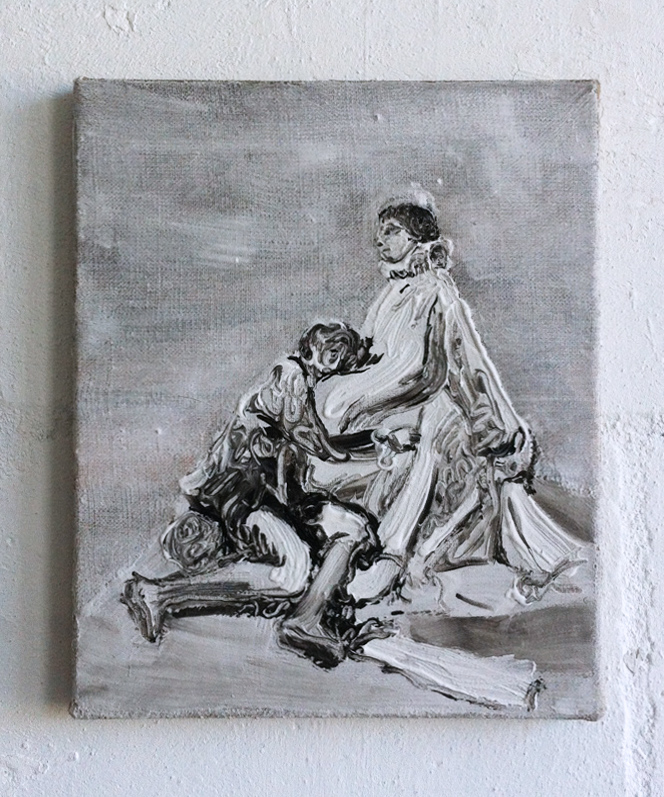
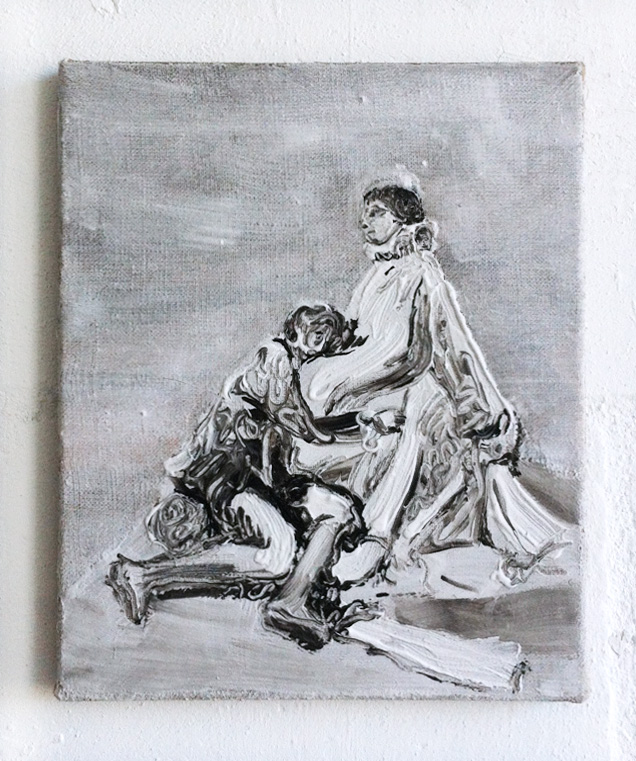
Adding "Anais Aubert 2" and news about Turps Gallery show

diff --git a/by_series.html b/by_series.html
@@ -27,10 +27,12 @@
               <li><a id="menu-item-by-year" href="by_year.html">by year</a></li>
             </ul>
             <ul class="hide-for-large-up series">
-              <li><a href="showcase.html">Feral Children</a></li>
               <li><a href="mini-series_Mars.html">Mars</a></li>
-              <li><a href="showcase.html">19th Century Women</a></li>
-              <li><a href="showcase.html">War</a></li>
+              <li><a href="mini-series_Feral.html">Feral Children</a></li>
+              <li><a href="mini-series_Women.html">19th Century Women</a></li>
+              <li><a href="mini-series_Grimm.html">Grimm Tales</a></li>
+              <li><a href="mini-series_Dead.html">Dead</a></li>
+              <li><a href="mini-series_War.html">Beautiful Painting of War</a></li>
             </ul>
           </li>
           <li><a href="bio.html">Bio</a></li>
@@ -52,7 +54,8 @@
             <p>
               (2013 &ndash; 2014)
             </p>
-            <div class="gallery-images"><a href="06_mars-01.html"><img src="images/06_S_mars-01.jpg"></a><a href="06_mars-02.html"><img src="images/06_S_mars-02.jpg"></a><a href="06_mars-03.html"><img src="images/06_S_mars-03.jpg"></a><a href="06_martian-rock-01.html"><img src="images/06_S_martian-rock-01.jpg"></a><a href="06_martian-crater-01.html"><img src="images/06_S_martian-crater-01.jpg"></a><a href="06_martian-rock-02.html"><img src="images/06_S_martian-rock-02.jpg"></a></div>
+            <div class="gallery-images"><a href="06_mars-01.html"><img src="images/06_S_mars-01.jpg"></a><a href="06_mars-02.html"><img src="images/06_S_mars-02.jpg"></a><a href="06_mars-03.html"><img src="images/06_S_mars-03.jpg"></a><a href="06_martian-rock-01.html"><img src="images/06_S_martian-rock-01.jpg"></a><a href="06_martian-crater-01.html"><img src="images/06_S_martian-crater-01.jpg"></a><a href="06_martian-rock-02.html"><img src="images/06_S_martian-rock-02.jpg"></a><a href="06_martian-diptych.html"><img src="images/06_S_martian-diptych.jpg"></a><a href="06_martian-diptych-A.html"><img src="images/06_S_martian-diptych-A.jpg"></a><a href="06_martian-diptych-B.html"><img src="images/06_S_martian-diptych-B.jpg"></a>
+            </div>
           </section>
           <section>
             <h2 id="Feral-children">Feral Children</h2>
@@ -65,7 +68,8 @@
             <p>
               (2012 &ndash; 2013)
             </p>
-            <div class="gallery-images"><a href="05_genie-wiley-01.html"><img src="images/05_S_genie-wiley-01.jpg"></a><a href="05_genie-wiley-02.html"><img src="images/05_S_genie-wiley-02.jpg"></a><a href="05_genie-wiley-03.html"><img src="images/05_S_genie-wiley-03.jpg"></a><a href="05_genie-wiley-04.html"><img src="images/05_S_genie-wiley-04.jpg"></a><a href="05_ivan-mishukov-01.html"><img src="images/05_S_ivan-mishukov-01.jpg"></a><a href="05_john-ssebunya-01.html"><img src="images/05_S_john-ssebunya-01.jpg"></a><a href="05_kamala-01.html"><img src="images/05_S_kamala-01.jpg"></a><a href="05_memmie-le-blanc-01.html"><img src="images/05_S_memmie-le-blanc-01.jpg"></a><a href="05_peter-wild-boy-01.html"><img src="images/05_S_peter-wild-boy-01.jpg"></a><a href="05_discovery-of-moses-01.html"><img src="images/05_S_discovery-of-moses-01.jpg"></a><a href="05_discovery-of-moses-02.html"><img src="images/05_S_discovery-of-moses-02.jpg"></a><a href="05_untitled-01.html"><img src="images/05_S_untitled-01.jpg"></a></div>
+            <div class="gallery-images"><a href="05_genie-wiley-01.html"><img src="images/05_S_genie-wiley-01.jpg"></a><a href="05_genie-wiley-02.html"><img src="images/05_S_genie-wiley-02.jpg"></a><a href="05_genie-wiley-03.html"><img src="images/05_S_genie-wiley-03.jpg"></a><a href="05_genie-wiley-04.html"><img src="images/05_S_genie-wiley-04.jpg"></a><a href="05_ivan-mishukov-01.html"><img src="images/05_S_ivan-mishukov-01.jpg"></a><a href="05_john-ssebunya-01.html"><img src="images/05_S_john-ssebunya-01.jpg"></a><a href="05_kamala-01.html"><img src="images/05_S_kamala-01.jpg"></a><a href="05_memmie-le-blanc-01.html"><img src="images/05_S_memmie-le-blanc-01.jpg"></a><a href="05_peter-wild-boy-01.html"><img src="images/05_S_peter-wild-boy-01.jpg"></a><a href="05_discovery-of-moses-01.html"><img src="images/05_S_discovery-of-moses-01.jpg"></a><a href="05_discovery-of-moses-02.html"><img src="images/05_S_discovery-of-moses-02.jpg"></a><a href="05_untitled-01.html"><img src="images/05_S_untitled-01.jpg"></a>
+            </div>
           </section>
           <section>
             <h2 id="Women-of-19th-Century">Women of the 19th Century</h2>
@@ -75,7 +79,9 @@
             <p>
               (2011 &ndash; present)
             </p>
-            <div class="gallery-images"><a href="04_laura-dAbrantes-01.html"><img src="images/04_S_laura-dAbrantes-01.jpg"></a><a href="04_ewelina-hanska-01.html"><img src="images/04_S_ewelina-hanska-01.jpg"></a><a href="04_maria-walewska-01.html"><img src="images/04_S_maria-walewska-01.jpg"></a><a href="04_rachel-felix-01.html"><img src="images/04_S_rachel-felix-01.jpg"></a><a href="04_lola-montez-05.html"><img src="images/04_S_lola-montez-05.jpg"></a><a href="04_george-sand-03.html"><img src="images/04_S_george-sand-03.jpg"></a><a href="04_painting-01.html"><img src="images/04_S_painting-01.jpg"></a><a href="04_delfina-potocka-02.html"><img src="images/04_S_delfina-potocka-02.jpg"></a><a href="04_marie-duplessis-02.html"><img src="images/04_S_marie-duplessis-02.jpg"></a><a href="04_anais-aubert-01.html"><img src="images/04_S_anais-aubert-01.jpg"></a><a href="04_painting-02.html"><img src="images/04_S_painting-02.jpg"></a><a href="04_apollonie-sabatier-02.html"><img src="images/04_S_apollonie-sabatier-02.jpg"></a><a href="04_laura-dAbrantes-02.html"><img src="images/04_S_laura-dAbrantes-02.jpg"></a><a href="04_delfina-potocka-01.html"><img src="images/04_S_delfina-potocka-01.jpg"></a><a href="04_lola-montez-03.html"><img src="images/04_S_lola-montez-03.jpg"></a><a href="04_aimee-desclee-01.html"><img src="images/04_S_aimee-desclee-01.jpg"></a><a href="04_untitled-01.html"><img src="images/04_S_untitled-01.jpg"></a><a href="04_george-sand-02.html"><img src="images/04_S_george-sand-02.jpg"></a><a href="04_lola-montez-02.html"><img src="images/04_S_lola-montez-02.jpg"></a><a href="04_marie-duplessis-01.html"><img src="images/04_S_marie-duplessis-01.jpg"></a><a href="04_lola-montez-04.html"><img src="images/04_S_lola-montez-04.jpg"></a><a href="04_lola-montez-01.html"><img src="images/04_S_lola-montez-01.jpg"></a><a href="04_apollonie-sabatier-01.html"><img src="images/04_S_apollonie-sabatier-01.jpg"></a><a href="04_karolina-sobanska-01.html"><img src="images/04_S_karolina-sobanska-01.jpg"></a><a href="04_george-sand-01.html"><img src="images/04_S_george-sand-01.jpg"></a></div>
+            <div class="gallery-images"><a href="04_laura-dAbrantes-01.html"><img src="images/04_S_laura-dAbrantes-01.jpg"></a><a href="04_maria-walewska-01.html"><img src="images/04_S_maria-walewska-01.jpg"></a><a href="04_rachel-felix-01.html"><img src="images/04_S_rachel-felix-01.jpg"></a><a href="04_george-sand-03.html"><img src="images/04_S_george-sand-03.jpg"></a><a href="04_ewelina-hanska-01.html"><img src="images/04_S_ewelina-hanska-01.jpg"></a><a href="04_delfina-potocka-02.html"><img src="images/04_S_delfina-potocka-02.jpg"></a><a href="04_lola-montez-05.html"><img src="images/04_S_lola-montez-05.jpg"></a><a href="04_painting-01.html"><img src="images/04_S_painting-01.jpg"></a><a href="04_anais-aubert-01.html"><img src="images/04_S_anais-aubert-01.jpg"></a><a href="04_apollonie-sabatier-02.html"><img src="images/04_S_apollonie-sabatier-02.jpg"></a><a href="04_laura-dAbrantes-02.html"><img src="images/04_S_laura-dAbrantes-02.jpg"></a><a href="04_painting-02.html"><img src="images/04_S_painting-02.jpg"></a><a href="04_delfina-potocka-01.html"><img src="images/04_S_delfina-potocka-01.jpg"></a><a href="04_lola-montez-03.html"><img src="images/04_S_lola-montez-03.jpg"></a><a href="04_aimee-desclee-01.html"><img src="images/04_S_aimee-desclee-01.jpg"></a><a href="04_untitled-01.html"><img src="images/04_S_untitled-01.jpg"></a><a href="04_george-sand-02.html"><img src="images/04_S_george-sand-02.jpg"></a><a href="04_lola-montez-02.html"><img src="images/04_S_lola-montez-02.jpg"></a><a href="04_marie-duplessis-01.html"><img src="images/04_S_marie-duplessis-01.jpg"></a><a href="04_lola-montez-04.html"><img src="images/04_S_lola-montez-04.jpg"></a><a href="04_lola-montez-01.html"><img src="images/04_S_lola-montez-01.jpg"></a><a href="04_apollonie-sabatier-01.html"><img src="images/04_S_apollonie-sabatier-01.jpg"></a><a href="04_karolina-sobanska-01.html"><img src="images/04_S_karolina-sobanska-01.jpg"></a><a href="04_george-sand-01.html"><img src="images/04_S_george-sand-01.jpg"></a><a href="04_anais-aubert-02.html"><img src="images/04_S_anais-aubert-02.jpg"></a>
+            
+            </div>
           </section>
           <section>
             <h2 id="Grimm-tales">Grimm Tales</h2>
@@ -85,7 +91,8 @@
             <p>
               (2009 &ndash; 2012)
             </p>
-            <div class="gallery-images"><a href="03_allerleirauch.html"><img src="images/03_S_allerleirauch.jpg"></a><a href="03_wichtelmaenner.html"><img src="images/03_S_wichtelmaenner2.jpg"></a><a href="03_marienkind.html"><img src="images/03_S_marienkind2.jpg"></a><a href="03_machandelboom.html"><img src="images/03_S_machandelboom2.jpg"></a><a href="03_gaensemagd.html"><img src="images/03_S_gaensemagd.jpg"></a><a href="03_rumpelstilzchen.html"><img src="images/03_S_rumpelstilzchen2.jpg"></a><a href="03_weisse-schwarze-braut.html"><img src="images/03_S_weisseschwartze.jpg"></a><a href="03_gelernte-jaeger.html"><img src="images/03_S_jaeger-02.png"></a><a href="03_trommler.html"><img src="images/03_S_trommler.jpg"></a><a href="03_baerenhaeuter.html"><img src="images/03_S_baerenhaeuter.jpg"></a><a href="03_meisterdieb.html"><img src="images/03_S_meisterdieb.jpg"></a><a href="03_bauer-und-teufel.html"><img src="images/03_S_teufel.jpg"></a></div>
+            <div class="gallery-images"><a href="03_allerleirauch.html"><img src="images/03_S_allerleirauch.jpg"></a><a href="03_wichtelmaenner.html"><img src="images/03_S_wichtelmaenner2.jpg"></a><a href="03_marienkind.html"><img src="images/03_S_marienkind2.jpg"></a><a href="03_machandelboom.html"><img src="images/03_S_machandelboom2.jpg"></a><a href="03_gaensemagd.html"><img src="images/03_S_gaensemagd.jpg"></a><a href="03_rumpelstilzchen.html"><img src="images/03_S_rumpelstilzchen2.jpg"></a><a href="03_weisse-schwarze-braut.html"><img src="images/03_S_weisseschwartze.jpg"></a><a href="03_gelernte-jaeger.html"><img src="images/03_S_jaeger-02.png"></a><a href="03_trommler.html"><img src="images/03_S_trommler.jpg"></a><a href="03_baerenhaeuter.html"><img src="images/03_S_baerenhaeuter.jpg"></a><a href="03_meisterdieb.html"><img src="images/03_S_meisterdieb.jpg"></a><a href="03_bauer-und-teufel.html"><img src="images/03_S_teufel.jpg"></a>
+            </div>
           </section>
           <section>
             <h2 id="Dead">Dead</h2>
@@ -95,7 +102,8 @@
             <p>
               (2008 &ndash; 2009)
             </p>
-            <div class="gallery-images"><a href="01_hunter.html"><img src="images/01_S_hunter-2.jpg"></a><a href="01_lady.html"><img src="images/01_S_deer-02.jpg"></a><a href="01_rabbits.html"><img src="images/01_S_rabbits.jpg"></a><a href="01_3deers.html"><img src="images/01_S_3deers.jpg"></a></div>
+            <div class="gallery-images"><a href="01_hunter.html"><img src="images/01_S_hunter-2.jpg"></a><a href="01_lady.html"><img src="images/01_S_deer-02.jpg"></a><a href="01_rabbits.html"><img src="images/01_S_rabbits.jpg"></a><a href="01_3deers.html"><img src="images/01_S_3deers.jpg"></a>
+            </div>
           </section>
           <section>
             <h2 id="Beautiful-painting-of-war">Beautiful Painting of War</h2>
@@ -105,11 +113,12 @@
             <p>
               (2007 &ndash; 2008)
             </p>
-            <div class="gallery-images"><a href="02_falling.html"><img src="images/02_S_falling.jpg"></a><a href="02_starting.html"><img src="images/02_S_starting.jpg"></a><a href="02_carrier2.html"><img src="images/02_S_carrier-02.jpg"></a><a href="02_airplane.html"><img src="images/02_S_airplane.jpg"></a><a href="02_burning.html"><img src="images/02_S_burning.jpg"></a></div>
+            <div class="gallery-images"><a href="02_falling.html"><img src="images/02_S_falling.jpg"></a><a href="02_starting.html"><img src="images/02_S_starting.jpg"></a><a href="02_carrier2.html"><img src="images/02_S_carrier-02.jpg"></a><a href="02_airplane.html"><img src="images/02_S_airplane.jpg"></a><a href="02_burning.html"><img src="images/02_S_burning.jpg"></a>
+            </div>
           </section>
         </article>
         <div class="hide-for-small">
-          <footer class="copyright">Copyright 2009-2014 Melania Yerka</footer>
+          <footer class="copyright">Copyright © 2009-2015 Mela Yerka</footer>
         </div>
       </div>
     </main>

diff --git a/by_year.html b/by_year.html
@@ -27,12 +27,12 @@
               <li><a id="menu-item-by-year" href="by_year.html" class="active">by year</a></li>
             </ul>
             <ul class="hide-for-large-up series">
-              <li><a href="showcase.html">Mars</a></li>
-              <li><a href="showcase.html">Feral Children</a></li>
-              <li><a href="showcase.html">19th Century Women</a></li>
-              <li><a href="showcase.html">Grimm Tales</a></li>
-              <li><a href="showcase.html">Dead</a></li>
-              <li><a href="showcase.html">Beautiful Painting of War</a></li>
+              <li><a href="mini-series_Mars.html">Mars</a></li>
+              <li><a href="mini-series_Feral.html">Feral Children</a></li>
+              <li><a href="mini-series_Women.html">19th Century Women</a></li>
+              <li><a href="mini-series_Grimm.html">Grimm Tales</a></li>
+              <li><a href="mini-series_Dead.html">Dead</a></li>
+              <li><a href="mini-series_War.html">Beautiful Painting of War</a></li>
             </ul>
           </li>
           <li><a href="bio.html">Bio</a></li>
@@ -53,12 +53,12 @@
 				<li><a id="menu-item-by-year" href="by_year.html">by year</a></li>
               </ul>
               <ul class="hide-for-large-up series">
-                <li><a href="showcase.html">Mars</a></li>
-                <li><a href="showcase.html">Feral Children</a></li>
-                <li><a href="showcase.html">19th Century Women</a></li>
-                <li><a href="showcase.html">Grimm Tales</a></li>
-                <li><a href="showcase.html">Dead</a></li>
-                <li><a href="showcase.html">Beautiful Painting of War</a></li>
+                <li><a href="#">Mars</a></li>
+                <li><a href="#">Feral Children</a></li>
+                <li><a href="#">19th Century Women</a></li>
+                <li><a href="#">Grimm Tales</a></li>
+                <li><a href="#">Dead</a></li>
+                <li><a href="#">Beautiful Painting of War</a></li>
               </ul>
             </li>
             <li><a href="bio.html">Bio</a></li>
@@ -72,28 +72,31 @@
         <div class="index-gallery">
           <!-- shows for large-up-->
           <ol class="gallery">
-            <li><span class="year"><a href="2014.html">2014</a></span>
-              <div class="gallery-images"><a href="04_laura-dAbrantes-01.html" data-image="images/04_S_laura-dAbrantes-01.jpg"></a><a href="04_ewelina-hanska-01.html" data-image="images/04_S_ewelina-hanska-01.jpg"></a><a href="04_maria-walewska-01.html" data-image="images/04_S_maria-walewska-01.jpg"></a><a href="04_rachel-felix-01.html" data-image="images/04_S_rachel-felix-01.jpg"></a><a href="04_lola-montez-05.html" data-image="images/04_S_lola-montez-05.jpg"></a><a href="04_george-sand-03.html" data-image="images/04_S_george-sand-03.jpg"></a><a href="04_painting-01.html" data-image="images/04_S_painting-01.jpg"></a><a href="04_delfina-potocka-02.html" data-image="images/04_S_delfina-potocka-02.jpg"></a><a href="04_marie-duplessis-02.html" data-image="images/04_S_marie-duplessis-02.jpg"></a><a href="04_anais-aubert-01.html" data-image="images/04_S_anais-aubert-01.jpg"></a><a href="04_painting-02.html" data-image="images/04_S_painting-02.jpg"></a><a href="04_apollonie-sabatier-02.html" data-image="images/04_S_apollonie-sabatier-02.jpg"></a><a href="04_laura-dAbrantes-02.html" data-image="images/04_S_laura-dAbrantes-02.jpg"></a><a href="06_martian-rock-01.html" data-image="images/06_S_martian-rock-01.jpg"></a><a href="06_martian-crater-01.html" data-image="images/06_S_martian-crater-01.jpg"></a><a href="06_martian-rock-02.html" data-image="images/06_S_martian-rock-02.jpg"></a></div>
+          	<li><span class="year"><a href="#">2015</a></span>
+              <div class="gallery-images"><a href="04_anais-aubert-02.html" data-image="images/04_S_anais-aubert-02.jpg"></a></div>
             </li>
-            <li><span class="year"><a href="2013.html">2013</a></span>
+            <li><span class="year"><a href="#">2014</a></span>
+              <div class="gallery-images"><a href="04_laura-dAbrantes-01.html" data-image="images/04_S_laura-dAbrantes-01.jpg"></a><a href="04_maria-walewska-01.html" data-image="images/04_S_maria-walewska-01.jpg"></a><a href="04_rachel-felix-01.html" data-image="images/04_S_rachel-felix-01.jpg"></a><a href="04_george-sand-03.html" data-image="images/04_S_george-sand-03.jpg"></a><a href="04_ewelina-hanska-01.html" data-image="images/04_S_ewelina-hanska-01.jpg"></a><a href="04_delfina-potocka-02.html" data-image="images/04_S_delfina-potocka-02.jpg"></a><a href="04_lola-montez-05.html" data-image="images/04_S_lola-montez-05.jpg"></a><a href="04_painting-01.html" data-image="images/04_S_painting-01.jpg"></a><a href="04_anais-aubert-01.html" data-image="images/04_S_anais-aubert-01.jpg"></a><a href="04_apollonie-sabatier-02.html" data-image="images/04_S_apollonie-sabatier-02.jpg"></a><a href="04_laura-dAbrantes-02.html" data-image="images/04_S_laura-dAbrantes-02.jpg"></a><a href="04_painting-02.html" data-image="images/04_S_painting-02.jpg"></a><a href="06_martian-rock-01.html" data-image="images/06_S_martian-rock-01.jpg"></a><a href="06_martian-crater-01.html" data-image="images/06_S_martian-crater-01.jpg"></a><a href="06_martian-rock-02.html" data-image="images/06_S_martian-rock-02.jpg"></a><a href="06_martian-diptych.html" data-image="images/06_S_martian-diptych.jpg"></a><a href="06_martian-diptych-A.html" data-image="images/06_S_martian-diptych-A.jpg"></a><a href="06_martian-diptych-B.html" data-image="images/06_S_martian-diptych-B.jpg"></a></div>
+            </li>
+            <li><span class="year"><a href="#">2013</a></span>
               <div class="gallery-images"><a href="06_mars-01.html" data-image="images/06_S_mars-01.jpg"></a><a href="06_mars-02.html" data-image="images/06_S_mars-02.jpg"></a><a href="06_mars-03.html" data-image="images/06_S_mars-03.jpg"></a></div>
             </li>
-            <li><span class="year"><a href="2012.html">2012</a></span>
+            <li><span class="year"><a href="#">2012</a></span>
               <div class="gallery-images"><a href="05_genie-wiley-01.html" data-image="images/05_S_genie-wiley-01.jpg"></a><a href="05_genie-wiley-02.html" data-image="images/05_S_genie-wiley-02.jpg"></a><a href="05_genie-wiley-03.html" data-image="images/05_S_genie-wiley-03.jpg"></a><a href="05_genie-wiley-04.html" data-image="images/05_S_genie-wiley-04.jpg"></a><a href="05_ivan-mishukov-01.html" data-image="images/05_S_ivan-mishukov-01.jpg"></a><a href="05_john-ssebunya-01.html" data-image="images/05_S_john-ssebunya-01.jpg"></a><a href="05_kamala-01.html" data-image="images/05_S_kamala-01.jpg"></a><a href="05_memmie-le-blanc-01.html" data-image="images/05_S_memmie-le-blanc-01.jpg"></a><a href="05_peter-wild-boy-01.html" data-image="images/05_S_peter-wild-boy-01.jpg"></a><a href="05_discovery-of-moses-01.html" data-image="images/05_S_discovery-of-moses-01.jpg"></a><a href="05_discovery-of-moses-02.html" data-image="images/05_S_discovery-of-moses-02.jpg"></a><a href="05_untitled-01.html" data-image="images/05_S_untitled-01.jpg"></a><a href="04_delfina-potocka-01.html" data-image="images/04_S_delfina-potocka-01.jpg"></a><a href="04_lola-montez-03.html" data-image="images/04_S_lola-montez-03.jpg"></a><a href="04_aimee-desclee-01.html" data-image="images/04_S_aimee-desclee-01.jpg"></a><a href="04_untitled-01.html" data-image="images/04_S_untitled-01.jpg"></a><a href="04_george-sand-02.html" data-image="images/04_S_george-sand-02.jpg"></a><a href="04_lola-montez-02.html" data-image="images/04_S_lola-montez-02.jpg"></a><a href="04_marie-duplessis-01.html" data-image="images/04_S_marie-duplessis-01.jpg"></a></div>
             </li>
-            <li><span class="year"><a href="2011.html">2011</a></span>
+            <li><span class="year"><a href="#">2011</a></span>
               <div class="gallery-images"><a href="04_lola-montez-04.html" data-image="images/04_S_lola-montez-04.jpg"></a><a href="04_lola-montez-01.html" data-image="images/04_S_lola-montez-01.jpg"></a><a href="04_apollonie-sabatier-01.html" data-image="images/04_S_apollonie-sabatier-01.jpg"></a><a href="04_karolina-sobanska-01.html" data-image="images/04_S_karolina-sobanska-01.jpg"></a><a href="04_george-sand-01.html" data-image="images/04_S_george-sand-01.jpg"></a><a href="03_allerleirauch.html" data-image="images/03_S_allerleirauh.jpg"></a><a href="03_wichtelmaenner.html" data-image="images/03_S_wichtelmaenner2.jpg"></a><a href="03_marienkind.html" data-image="images/03_S_marienkind2.jpg"></a></div>
             </li>
-            <li><span class="year"><a href="2010.html">2010</a></span>
+            <li><span class="year"><a href="#">2010</a></span>
               <div class="gallery-images"><a href="03_machandelboom.html" data-image="images/03_S_machandelboom2.jpg"></a><a href="03_gaensemagd.html" data-image="images/03_S_gaensemagd.jpg"></a><a href="03_rumpelstilzchen.html" data-image="images/03_S_rumpelstilzchen2.jpg"></a><a href="03_weisse-schwarze-braut.html" data-image="images/03_S_weisseschwartze.jpg"></a><a href="03_gelernte-jaeger.html" data-image="images/03_S_jaeger-02.png"></a><a href="03_trommler.html" data-image="images/03_S_trommler.jpg"></a><a href="03_baerenhaeuter.html" data-image="images/03_S_baerenhaeuter.jpg"></a><a href="03_meisterdieb.html" data-image="images/03_S_meisterdieb.jpg"></a></div>
             </li>
-            <li><span class="year"><a href="2009.html">2009 and earlier</a></span>
+            <li><span class="year"><a href="#">2009 and earlier</a></span>
               <div class="gallery-images"><a href="03_bauer-und-teufel.html" data-image="images/03_S_teufel.jpg"></a><a href="01_hunter.html" data-image="images/01_S_hunter-2.jpg"></a><a href="01_lady.html" data-image="images/01_S_deer-02.jpg"></a><a href="01_rabbits.html" data-image="images/01_S_rabbits.jpg"></a><a href="01_3deers.html" data-image="images/01_S_3deers.jpg"></a><a href="02_falling.html" data-image="images/02_S_falling.jpg"></a><a href="02_starting.html" data-image="images/02_S_starting.jpg"></a><a href="02_carrier2.html" data-image="images/02_S_carrier-02.jpg"></a><a href="02_airplane.html" data-image="images/02_S_airplane.jpg"></a><a href="02_burning.html" data-image="images/02_S_burning.jpg"></a></div>
             </li>
           </ol>
         </div>
         <div class="hide-for-small">
-          <footer class="copyright">Copyright 2009-2014 Melania Yerka</footer>
+          <footer class="copyright">Copyright © 2009-2015 Mela Yerka</footer>
         </div>
       </div>
     </main>

diff --git a/mini-series_Women.html b/mini-series_Women.html
@@ -52,81 +52,56 @@
             <h3>Here I explore the stories of high society women living in the times of Romanticism who were lovers of famous contemporary men: Balzac, Chopin, Hugo, Liszt, Byron. They created a peculiar web of sexual relationships where each woman (among them: George Sand, Rachel Felix, Lola Montez) was linked to another through their mutual lovers. Thus, a constellation of lovers had emerged &mdash; mysterious, complex and entangled.<br>
             <br>
 			<a href="#ReadMore">Read more...</a></h3>
-          <h4>"Laura d'Abrantes"</h4>
-		  <h5>Oil, acrylic, egg tempera, water colour and marble dust on linen (2014)</h5>
+          <h4>"Laura d'Abrantes"</h4><h5>Oil, acrylic, egg tempera, water colour and marble dust on linen (2014)</h5>
             <img src="images/04_L_laura-dAbrantes-01.jpg">
-          <h4>"Ewelina Hanska"</h4>
-		  <h5>100&times;80 cm, acrylic, oil and marble dust on linen (2014)</h5>
-            <img src="images/04_L_ewelina-hanska-01.jpg">
-          <h4>"Maria Walewska"</h4>
-		  <h5>110&times;110 cm, acrylic and marble dust on linen (2014)</h5>
+          <h4>"Maria Walewska"</h4><h5>110&times;110 cm, acrylic and marble dust on linen (2014)</h5>
             <img src="images/04_L_maria-walewska-01.jpg">
-          <h4>"Rachel Felix"</h4>
-		  <h5>90&times;60 cm, acrylic, oil, egg tempera and marble dust on linen (2014)</h5>
+          <h4>"Rachel Felix"</h4><h5>90&times;60 cm, acrylic, oil, egg tempera and marble dust on linen (2014)</h5>
             <img src="images/04_L_rachel-felix-01.jpg">
-          <h4>"Lola Montez"</h4>
-		  <h5>60&times;90 cm, marble dust and oil on linen (2014)</h5>
-            <img src="images/04_L_lola-montez-05.jpg">
-          <h4>"George Sand"</h4>
-		  <h5>60&times;90 cm, acrylic, marble dust and oil on linen (2014)</h5>
+          <h4>"George Sand"</h4><h5>60&times;90 cm, acrylic, marble dust and oil on linen (2014)</h5>
             <img src="images/04_L_george-sand-03.jpg">
-          <h4>Untitled</h4>
-		  <h5>Oil in linen (2014)</h5>
-            <img src="images/04_L_painting-01.jpg">
-          <h4>"Delfina Potocka"</h4>
-		  <h5>Oil in linen (2014)</h5>
+          <h4>"Ewelina Hanska"</h4><h5>100&times;80 cm, acrylic, oil and marble dust on linen (2014)</h5>
+            <img src="images/04_L_ewelina-hanska-01.jpg">
+          <h4>"Delfina Potocka"</h4><h5>Oil in linen (2014)</h5>
             <img src="images/04_L_delfina-potocka-02.jpg">
-          <h4>"Flowers for Marie Duplessis"</h4>
-		  <h5>Oil on linen cutouts on linen (2014)</h5>
-            <img src="images/04_L_marie-duplessis-02.jpg">
-          <h4>"Anais Aubert"</h4>
-		  <h5>Oil on linen (2014)</h5>
+          <h4>"Lola Montez"</h4><h5>60&times;90 cm, marble dust and oil on linen (2014)</h5>
+            <img src="images/04_L_lola-montez-05.jpg">
+          <h4>Untitled</h4><h5>Oil in linen (2014)</h5>
+            <img src="images/04_L_painting-01.jpg">
+          <h4>"Anais Aubert"</h4><h5>Oil on linen (2014)</h5>
             <img src="images/04_L_anais-aubert-01.jpg">
-          <h4>Untitled</h4>
-		  <h5>Oil and marble dust on linen (2014)</h5>
-            <img src="images/04_L_painting-02.jpg">
-          <h4>"Apollonie Sabatier"</h4>
-		  <h5>Oil and marble dust on linen (2014)</h5>
+          <h4>"Apollonie Sabatier"</h4><h5>Oil and marble dust on linen (2014)</h5>
             <img src="images/04_L_apollonie-sabatier-02.jpg">
-          <h4>"Laura d'Abrantes"</h4>
-		  <h5>Oil on linen (2014)</h5>
+          <h4>"Laura d'Abrantes"</h4><h5>Oil on linen (2014)</h5>
             <img src="images/04_L_laura-dAbrantes-02.jpg">
-          <h4>"Delfina Potocka"</h4>
-		  <h5>27.5&times;25 cm, oil on linen (2012)</h5>
+          <h4>Untitled</h4><h5>Oil and marble dust on linen (2014)</h5>
+            <img src="images/04_L_painting-02.jpg">
+          <h4>"Delfina Potocka"</h4><h5>27.5&times;25 cm, oil on linen (2012)</h5>
             <img src="images/04_L_delfina-potocka-01.jpg">
-          <h4>"Lola Montez"</h4>
-		  <h5>120&times;100 cm, egg tempera and water colour on linen (2012)</h5>
+          <h4>"Lola Montez"</h4><h5>120&times;100 cm, egg tempera and water colour on linen (2012)</h5>
             <img src="images/04_L_lola-montez-03.jpg">
-          <h4>"Aimee Desclee"</h4>
-		  <h5>46&times;38 cm, oil on canvas (2012)</h5>
+          <h4>"Aimee Desclee"</h4><h5>46&times;38 cm, oil on canvas (2012)</h5>
             <img src="images/04_L_aimee-desclee-01.jpg">
-          <h4>Untitled</h4>
-		  <h5>25&times;20 cm, oil on glass (2012)</h5>
+          <h4>Untitled</h4><h5>25&times;20 cm, oil on glass (2012)</h5>
             <img src="images/04_L_untitled-01.jpg">
-          <h4>"Flowers for George Sand"</h4>
-		  <h5>40.5&times;30.5 cm, oil on canvas (2012)</h5>
+          <h4>"Flowers for George Sand"</h4><h5>40.5&times;30.5 cm, oil on canvas (2012)</h5>
             <img src="images/04_L_george-sand-02.jpg">
-          <h4>"Lola Montez"</h4>
-		  <h5>Oil on linen, porcelain cameo (2012)</h5>
+          <h4>"Lola Montez"</h4><h5>Oil on linen, porcelain cameo (2012)</h5>
             <img src="images/04_L_lola-montez-02.jpg">
-          <h4>"Marie Duplessis"</h4>
-		  <h5>24&times;18 cm, oil on linen cutouts on linen (2012)</h5>
+          <h4>"Marie Duplessis"</h4><h5>24&times;18 cm, oil on linen cutouts on linen (2012)</h5>
             <img src="images/04_L_marie-duplessis-01.jpg">
-          <h4>"Lola Montez"</h4>
-		  <h5>56&times;44 cm, oil on linen (2011)</h5>
+          <h4>"Lola Montez"</h4><h5>56&times;44 cm, oil on linen (2011)</h5>
             <img src="images/04_L_lola-montez-04.jpg">
-          <h4>"Lola Montez"</h4>
-		  <h5>35.5&times;27.5 cm, oil on glass and paper, multiple layers (2011)</h5>
+          <h4>"Lola Montez"</h4><h5>35.5&times;27.5 cm, oil on glass and paper, multiple layers (2011)</h5>
             <img src="images/04_L_lola-montez-01.jpg">
-          <h4>"Apollonie Sabatier"</h4>
-		  <h5>27.5&times;21.5 cm, oil on linen (2011)</h5>
+          <h4>"Apollonie Sabatier"</h4><h5>27.5&times;21.5 cm, oil on linen (2011)</h5>
             <img src="images/04_L_apollonie-sabatier-01.jpg">
-          <h4>"Flowers for Karolina Sobanska"</h4>
-		  <h5>30.5&times;25.5 cm, oil on canvas (2011)</h5>
+          <h4>"Flowers for Karolina Sobanska"</h4><h5>30.5&times;25.5 cm, oil on canvas (2011)</h5>
             <img src="images/04_L_karolina-sobanska-01.jpg">
-          <h4>"George Sand"</h4>
-		  <h5>40&times;30 cm, oil on linen (2011)</h5>
+          <h4>"George Sand"</h4><h5>40&times;30 cm, oil on linen (2011)</h5>
           	<img src="images/04_L_george-sand-01.jpg">
+          <h4>"Anais Aubert"</h4><h5>Marble dust, acrylic and ink on linen (2015)</h5>
+            <img src="images/04_L_anais-aubert-02.jpg">
           <h3><a name="ReadMore"></a>Here I explore the stories of high society women living in the times of Romanticism who were lovers of famous contemporary men: Balzac, Chopin, Hugo, Liszt, Byron. They created a peculiar web of sexual relationships where each woman (among them: George Sand, Rachel Felix, Lola Montez) was linked to another through their mutual lovers. Thus, a constellation of lovers had emerged &mdash; mysterious, complex and entangled.<br>
 			<br>
 			19th Century women &mdash; aristocrats, writers, actresses, models, courtesans &mdash; and the stories of their lives are remembered in history only through their intimate relationships with the prominent men of that time. All portrayed women craved personal freedom and social appreciation, but in pursuit of it they had to rely on male lust and love. Bringing their stories back from the past (and being forgotten), I want to explore and depict 19th Century womens' struggle for individuality.</h3>
@@ -136,7 +111,7 @@
             <div class="menu-trigger"><a href="index.html">Menu</a></div>
           </footer>
         <div>
-          <footer class="copyright">Copyright 2009-2014 Melania Yerka</footer>
+          <footer class="copyright">Copyright © 2009-2015 Mela Yerka</footer>
         </div>
       </div>
     </main>

diff --git a/04_anais-aubert-02.html b/04_anais-aubert-02.html
@@ -1,0 +1,67 @@
+<!DOCTYPE html>
+<html lang="en">
+  <head>
+    <meta charset="utf-8">
+    <meta name="viewport" content="width=device-width, initial-scale=1.0">
+    <meta name="keywords" content="Yerka, Mela, Melania, Mela Yerka, artist, art, painter, canvas, oil on canvas, oil colours, picture, painting, Poland, England, United Kingdom, London, Warsaw, ASP Warszawa, Central Saint Martins, MA Fine Art, Maria Stenfors">
+    <meta property="og:site_name" content="melayerka.com">
+    <meta property="og:type" content="website">
+    <meta property="og:description" content="Mela Yerka. Graduated in 2011 from Central Saint Martins, London, having previously studied at the Academy of Fine Arts in Warsaw, Poland. Mela is the winner of the Cass Art Painting Prize 2011. Polish born, she now lives and works in London. She exhibits her work internationally.">
+    <link href="favicon.ico" rel="shortcut icon" type="image/x-icon">
+    <script type="text/javascript" src="//use.typekit.net/fut1tws.js"></script>
+	<script type="text/javascript">try{Typekit.load();}catch(e){}</script>
+    <link rel="stylesheet" href="normalize.css">
+    <link rel="stylesheet" href="foundation.css">
+    <link rel="stylesheet" href="app.css">
+    <script src="components/jquery/dist/jquery.min.js"></script>
+    <script src="components/modernizr/modernizr.js"></script>
+    <title>Mela Yerka</title>
+  </head>
+  <body>
+    <main>
+      <div class="menu-wrapper"><span class="site-title"><a href="index.html">Mela Yerka</a></span>
+        <ul class="menu">
+          <li>Works
+              <ul class="show-for-large-up">
+                <li><a href="by_series.html">by series</a></li>
+					 <li><a id="menu-item-by-year" href="by_year.html">by year</a></li>
+              </ul>
+              <ul class="hide-for-large-up series">
+                <li><a href="#">Mars</a></li>
+                <li><a href="#">Feral Children</a></li>
+                <li><a href="#">19th Century Women</a></li>
+                <li><a href="#">Grimm Tales</a></li>
+                <li><a href="#">Dead</a></li>
+                <li><a href="#">Beautiful Painting of War</a></li>
+              </ul>
+            </li>
+            <li><a href="bio.html">Bio</a></li>
+            <li><a href="statement.html">Statement</a></li>
+            <li><a href="exhibitions.html">Exhibitions</a></li>
+            <li><a href="links.html">Links</a></li>
+            <li><a href="contact.html">Contact</a></li>
+            <li><a href="http://mariastenfors.com" target="_blank">Maria Stenfors</a></li>
+        </ul>
+      </div>
+      <div class="main-content">
+        <div class="table-layout">
+          <div class="cell year">"Anais Aubert"
+            <p class="description show-for-large-up">Marble dust, acrylic and ink on linen (2015)</p>
+          </div>
+          <div class="cell painting menu-wrapper">
+            <div class="menu-trigger hide-for-large-up"><a href="index.html">Menu</a></div>
+          </div>
+        </div>
+        <section class="navigation-controls table-layout">
+          <div class="cell previous"><a href="04_george-sand-01.html"><</a></div>
+          <div class="cell next"><a href="04_laura-dAbrantes-01.html">></a></div>
+        </section>
+        <section class="painting"><img src="images/04_L_anais-aubert-02.jpg">
+          <p class="description hide-for-large-up">Marble dust, acrylic and ink on linen (2015)</p>
+        </section>
+        <footer class="copyright">Copyright © 2009-2015 Mela Yerka</footer>
+      </div>
+    </main>
+    <script src="app.js"></script>
+  </body>
+</html>

diff --git a/index.html b/index.html
@@ -78,7 +78,7 @@
 
 <h5><a href="http://www.facebook.com/events/467269460101306/" target="_blank">Mela Yerka will be part of the Summer Mix — Turps Gallery's playlist for summer 2015.</a></h5>
 
-<a href="http://melayerka.com/by_series.html#Women-of-19th-Century"><img src="images/04_L_anais-aubert-02.jpg" alt="Anais Aubert, 2015"/></a>
+<a href="http://www.facebook.com/events/467269460101306/"><img src="images/04_L_anais-aubert-02.jpg" alt="Anais Aubert, 2015"/></a>
 </header>
 
 <ul class="show-for-large-up">
